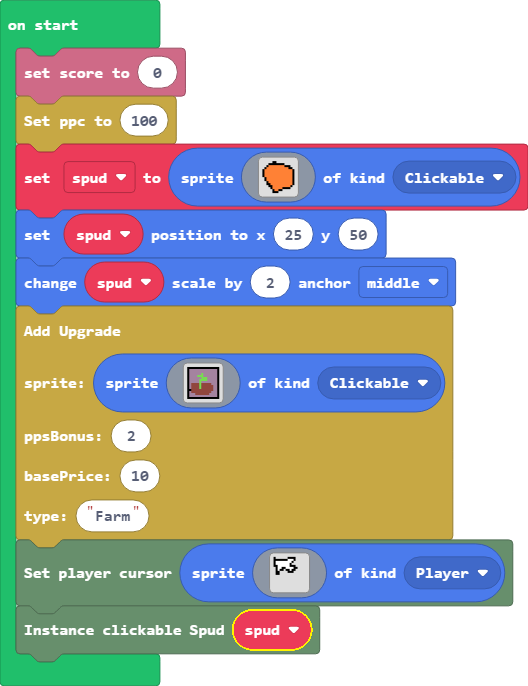
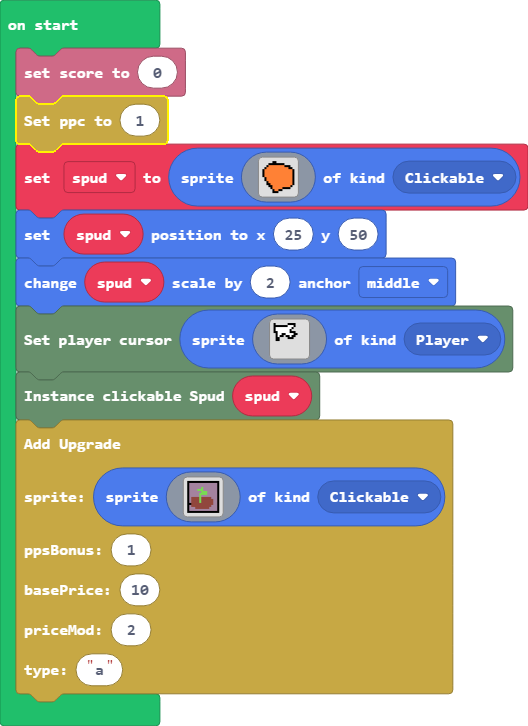
Added upgrade price-scaling with each purchase

diff --git a/upgrade.ts b/upgrade.ts
@@ -2,36 +2,50 @@
 namespace upgrade {
     export class Upgrade extends Button {
         ppsBonus: number
-        basePrice: number
+        basePrice: number // Initial price
+        priceMod: number // Percentage price is increased by with each purchase
         upgradeType: string
 
+        price: number = 0
+        upgradesOwned: int32 = 0
+
         constructor(sprite: Sprite,
-                ppsBonus: number, basePrice: number, upgradeType: string) {
+                ppsBonus: number, basePrice: number, priceMod: number, upgradeType: string) {
             super(sprite)
             this.ppsBonus = ppsBonus
             this.basePrice = basePrice
+            this.priceMod = priceMod
             this.upgradeType = upgradeType
+
+            this.price = basePrice
         }
         
         // On click event
         trigger() {
-            if(clicker_game.scoreF >= this.basePrice) {
-                clicker_game.increasePps(this.ppsBonus)
-                clicker_game.modifyScore(this.basePrice*-1)
+            if(clicker_game.scoreF >= this.price) {
+                this.purchaseUpgrade()
             }
+        }
+
+        purchaseUpgrade() {
+            clicker_game.increasePps(this.ppsBonus)
+            clicker_game.modifyScore(this.price * -1)
+            this.upgradesOwned++
+            this.price = this.basePrice * this.upgradesOwned * (this.priceMod-1)
         }
     }
 
     /**Adds a new upgrade (and the corresponding button)
      * @param ppsBonus - The increased potatoes per second it provides
      * @param upgradeType - The 'type' of upgrade it is
+     * @param priceMod - Modifier to price with each purchasse
      * @param sprite - The texture of the button
      * @param basePrice - The price of the upgrade (before modifications)
      */
-    //% block="Add Upgrade| sprite:$sprite| ppsBonus:$ppsBonus basePrice:$basePrice type:$upgradeType"
+    //% block="Add Upgrade| sprite:$sprite| ppsBonus:$ppsBonus basePrice:$basePrice priceMod:$priceMod type:$upgradeType"
     //% group="Upgrade"
     export function addUpgrade(sprite: Sprite, 
-            ppsBonus: number, basePrice: number, upgradeType: string) {
-        ui.addUpgradeButton(sprite, ppsBonus, basePrice, upgradeType)
+            ppsBonus: number, basePrice: number, priceMod: number, upgradeType: string) {
+        ui.addUpgradeButton(sprite, ppsBonus, basePrice, priceMod, upgradeType)
     }
 }

diff --git a/main.ts b/main.ts
@@ -2,7 +2,7 @@ namespace SpriteKind {
     export const Clickable = SpriteKind.create()
 }
 info.setScore(0)
-clicker_game.setPpc(100)
+clicker_game.setPpc(1)
 let spud = sprites.create(img`
     . . . . . f f . . . . . . . . . 
     . . . f f f f f f f f . . . . . 
@@ -23,29 +23,6 @@ let spud = sprites.create(img`
     `, SpriteKind.Clickable)
 spud.setPosition(25, 50)
 spud.changeScale(2, ScaleAnchor.Middle)
-upgrade.addUpgrade(
-sprites.create(img`
-    f f f f f f f f f f f f f f f f 
-    f b b b b b b b b b b b b b b f 
-    f b b b b b b b b b b b b b b f 
-    f b b b b b b 7 b b b b b b b f 
-    f b b b b 7 7 7 b b b b b b b f 
-    f b b b b b b 7 7 7 b b b b b f 
-    f b b b b b 7 7 7 7 b b b b b f 
-    f b b b b b 7 b b b b b b b b f 
-    f b e e e e 7 e e e e e b b b f 
-    f b e e e e 7 e e e e e e b b f 
-    f b e e e e 7 e e e e e e b b f 
-    f f e e e e e e e e e e e b b f 
-    f b e e e e e e e e e e b b b f 
-    f b b b e e e e e e e b b b b f 
-    f b b b b b b b b b b b b b b f 
-    f f f f f f f f f f f f f f f f 
-    `, SpriteKind.Clickable),
-2,
-10,
-"Farm"
-)
 ui.setCursor(sprites.create(img`
     f . . . . . . f f f f . . . . . 
     f f f f f f f 1 1 1 f . . . . . 
@@ -65,3 +42,27 @@ ui.setCursor(sprites.create(img`
     . . . . . . . . . . . . . . . . 
     `, SpriteKind.Player))
 ui.instanceSpud(spud)
+upgrade.addUpgrade(
+sprites.create(img`
+    f f f f f f f f f f f f f f f f 
+    f b b b b b b b b b b b b b b f 
+    f b b b b b b b b b b b b b b f 
+    f b b b b b b 7 b b b b b b b f 
+    f b b b b 7 7 7 b b b b b b b f 
+    f b b b b b b 7 7 7 b b b b b f 
+    f b b b b b 7 7 7 7 b b b b b f 
+    f b b b b b 7 b b b b b b b b f 
+    f b e e e e 7 e e e e e b b b f 
+    f b e e e e 7 e e e e e e b b f 
+    f b e e e e 7 e e e e e e b b f 
+    f f e e e e e e e e e e e b b f 
+    f b e e e e e e e e e e b b b f 
+    f b b b e e e e e e e b b b b f 
+    f b b b b b b b b b b b b b b f 
+    f f f f f f f f f f f f f f f f 
+    `, SpriteKind.Clickable),
+1,
+10,
+2,
+"a"
+)

diff --git a/ui.ts b/ui.ts
@@ -20,8 +20,8 @@ namespace ui {
     }
 
     export function addUpgradeButton(sprite: Sprite,
-            ppsBonus: number, basePrice: number, upgradeType: string): void {
-        const button = new UpgradeButton(sprite, ppsBonus, basePrice, upgradeType)
+            ppsBonus: number, basePrice: number, priceMod: number, upgradeType: string): void {
+        const button = new UpgradeButton(sprite, ppsBonus, basePrice, priceMod, upgradeType)
         buttonArr.push(button)
     }
 
